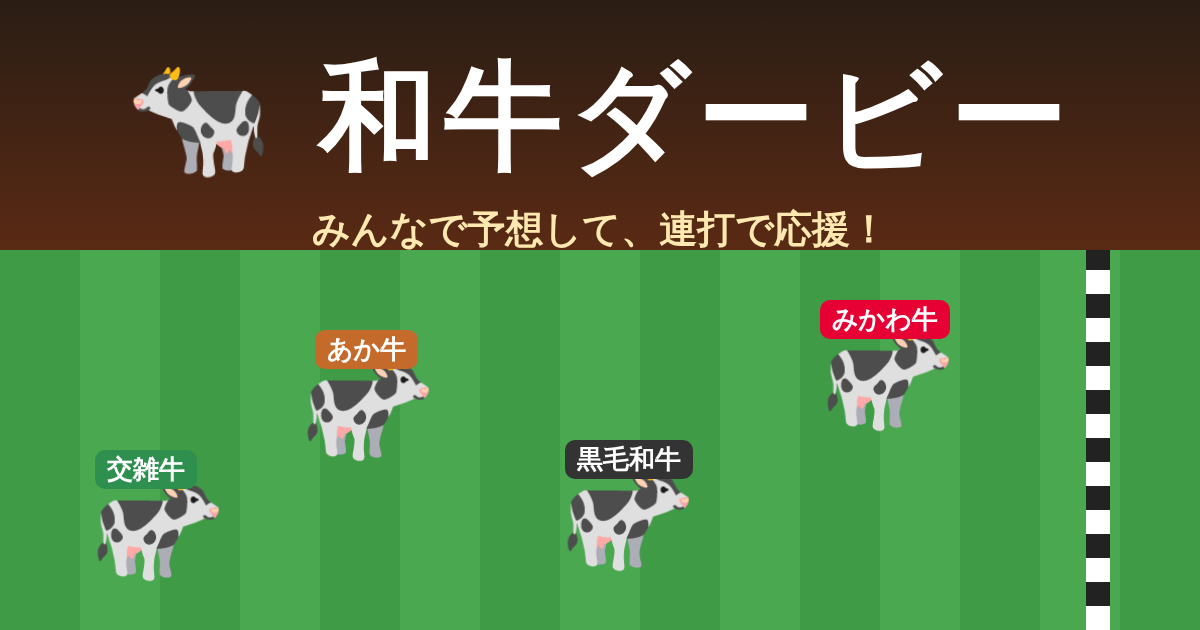
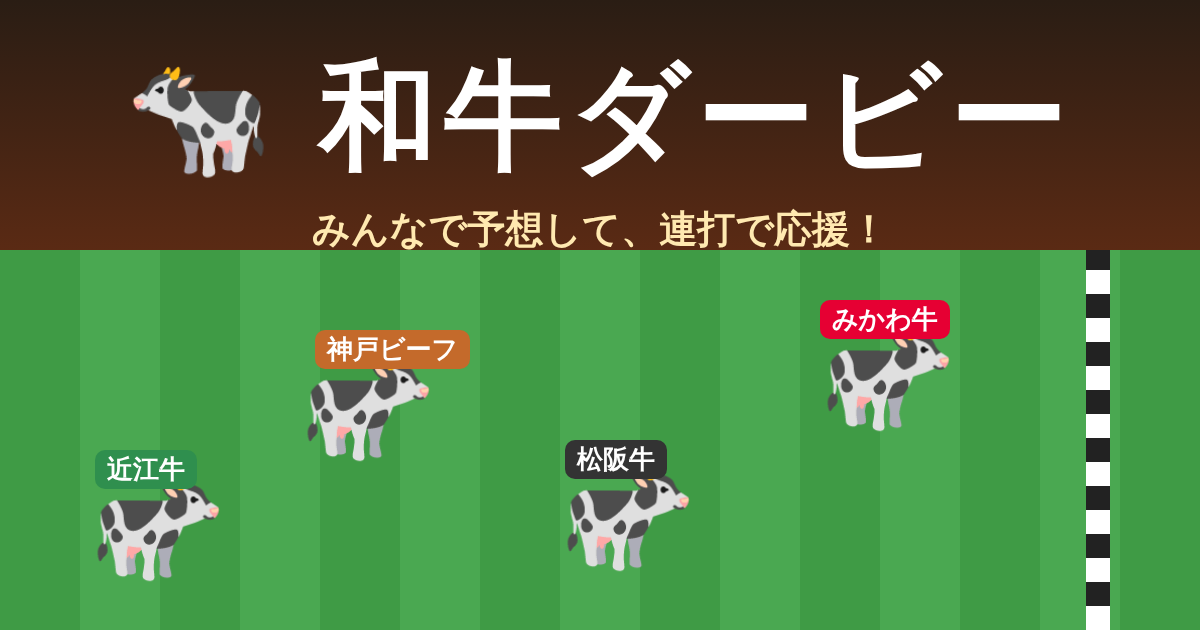
Race real wagyu brands plus 交雑牛 instead of fictional cows
Runners are now みかわ牛, 松阪牛, 神戸ビーフ, 近江牛, 米沢牛, 飛騨牛 and
交雑牛, shown with their prefecture. みかわ牛 still wins about 28% of
races versus about 12% for each rival.

Claude-Session: https://claude.ai/code/session_01D6XL12TRymXYCNqm6uF1j6

Changed region(s): [[0.2467, 0.5127, 0.4008, 0.6032], [0.4625, 0.6937, 0.5858, 0.7841], [0.0925, 0.7238, 0.1542, 0.7841]]

diff --git a/public/app.js b/public/app.js
@@ -76,8 +76,8 @@
     $('#cowCards').innerHTML = W.COWS.map((c, i) => `
       <div class="cow-card ${c.star ? 'star' : ''}" style="--c:${c.color}">
         <div class="num">${i + 1}</div>
-        <div class="brand">${esc(c.brand)} ${c.star ? '<span class="badge">推し牛</span>' : ''}</div>
-        <div class="name">${esc(c.name)}</div>
+        <div class="brand">${esc(c.origin)} ${c.star ? '<span class="badge">推し牛</span>' : ''}</div>
+        <div class="name">${esc(c.brand)}</div>
         <div class="intro">${esc(c.intro)}</div>
         <div class="meta"><span class="odds">${state.odds[i].toFixed(1)}倍</span><span class="cond">調子：${state.conditions[i].label}</span></div>
       </div>`).join('');
@@ -175,7 +175,7 @@
     for (const ev of events) {
       const r = ev.r;
       if (ev.type === 'finish') {
-        if (ev.place === 1) { say(`ゴーーール！！ 1着は ${label(r)} 「${r.cow.name}」！${r.cow.star ? ' さすがみかわ牛！！' : ''}`, true); sfx.fanfare(); }
+        if (ev.place === 1) { say(`ゴーーール！！ 1着は ${label(r)}（${r.cow.origin}）！${r.cow.star ? ' さすがみかわ牛！！' : ''}`, true); sfx.fanfare(); }
         continue;
       }
       if (ev.type === 'grass') say(`おっと ${label(r)}、道草を食べ始めたーっ！🌱`);
@@ -255,12 +255,12 @@
     banner.innerHTML = `
       <div class="big-cow">🐄</div>
       <div class="w1">第${state.round}レース 優勝</div>
-      <div class="w2">${win.idx + 1}番 ${esc(win.cow.brand)}「${esc(win.cow.name)}」</div>
+      <div class="w2">${win.idx + 1}番 ${esc(win.cow.brand)}</div>
       <div class="w3">${win.cow.star ? 'やっぱり強い！みかわ牛！！🎉' : `大波乱！単勝 ${odds.toFixed(1)}倍！`}</div>`;
 
     $('#resultList').innerHTML = fin.map((r, i) => `
       <li style="--c:${r.cow.color}"><span class="place">${['🥇', '🥈', '🥉'][i] || (i + 1) + '着'}</span>
-        <span>${r.idx + 1}番 <b>${esc(r.cow.brand)}</b> ${esc(r.cow.name)}</span>
+        <span>${r.idx + 1}番 <b>${esc(r.cow.brand)}</b> <small>${esc(r.cow.origin)}</small></span>
         <span class="time">${r.finishTime.toFixed(2)}秒</span></li>`).join('');
 
     const payouts = state.players.map((p) => {
@@ -274,7 +274,7 @@
       : '<li class="hint">参加者なし（観戦モード）</li>';
 
     const myHits = payouts.filter((x) => x.hit).map((x) => x.p.name);
-    lastResultText = `🐄 和牛ダービー 第${state.round}レースは ${win.idx + 1}番 ${win.cow.brand}「${win.cow.name}」が優勝！` +
+    lastResultText = `🐄 和牛ダービー 第${state.round}レースは ${win.idx + 1}番 ${win.cow.brand}が優勝！` +
       (win.cow.star ? 'やっぱりみかわ牛は強い！' : `単勝${odds.toFixed(1)}倍の波乱！`) +
       (myHits.length ? ` 的中：${myHits.join('・')}` : '') + ' #和牛ダービー';
     updateShareLinks();

diff --git a/public/race.js b/public/race.js
@@ -4,18 +4,20 @@
 
   // 出走牛。みかわ牛は「ちょっとだけ」有利（base と grassRate で調整）。
   const COWS = [
-    { id: 'mikawa',  brand: 'みかわ牛', name: 'ミカワノヒカリ', color: '#e60033', base: 1.008, grassRate: 0.7, dashRate: 1.2, star: true,
-      intro: '愛知・三河の誇り。きめ細かいサシと末脚が武器！' },
-    { id: 'kuro',    brand: '黒毛和牛', name: 'クロゲノカゼ',   color: '#333333', base: 1.0, grassRate: 1, dashRate: 1,
-      intro: '黒光りする馬体ならぬ牛体。安定感はピカイチ。' },
-    { id: 'aka',     brand: 'あか牛',   name: 'アカベコダッシュ', color: '#c46a2b', base: 1.0, grassRate: 1, dashRate: 1,
-      intro: 'スタートダッシュが得意。でも気分屋。' },
-    { id: 'tanka',   brand: '短角牛',   name: 'タンカクファイター', color: '#8b5a2b', base: 1.0, grassRate: 1, dashRate: 1,
-      intro: '山育ちのスタミナ自慢。坂に強い（坂はない）。' },
-    { id: 'mukaku',  brand: '無角牛',   name: 'ツノナシジェット', color: '#5b6b7a', base: 1.0, grassRate: 1, dashRate: 1,
-      intro: '角がないぶん空気抵抗が少ない…らしい。' },
-    { id: 'wagyu',   brand: '交雑牛',   name: 'ハーフアンドハーフ', color: '#2f8f4e', base: 1.0, grassRate: 1, dashRate: 1,
-      intro: 'いいとこ取りのハイブリッド。大穴の香り。' },
+    { id: 'mikawa',   brand: 'みかわ牛',   origin: '愛知県', color: '#e60033', base: 1.008, grassRate: 0.7, dashRate: 1.2, star: true,
+      intro: '愛知県・三河の黒毛和牛。今日の本命！' },
+    { id: 'matsusaka', brand: '松阪牛',     origin: '三重県', color: '#333333', base: 1.0, grassRate: 1, dashRate: 1,
+      intro: '三重県松阪地域の名ブランド。' },
+    { id: 'kobe',     brand: '神戸ビーフ', origin: '兵庫県', color: '#1f5fa8', base: 1.0, grassRate: 1, dashRate: 1,
+      intro: '兵庫県の但馬牛から生まれるブランド。' },
+    { id: 'omi',      brand: '近江牛',     origin: '滋賀県', color: '#c46a2b', base: 1.0, grassRate: 1, dashRate: 1,
+      intro: '滋賀県の歴史ある和牛ブランド。' },
+    { id: 'yonezawa', brand: '米沢牛',     origin: '山形県', color: '#6a4c93', base: 1.0, grassRate: 1, dashRate: 1,
+      intro: '山形県置賜地方の雪国育ち。' },
+    { id: 'hida',     brand: '飛騨牛',     origin: '岐阜県', color: '#2f8f4e', base: 1.0, grassRate: 1, dashRate: 1,
+      intro: '岐阜県の山あいで育つ黒毛和牛。' },
+    { id: 'kozatsu',  brand: '交雑牛',     origin: '国産', color: '#8b8b3a', base: 1.0, grassRate: 1, dashRate: 1,
+      intro: '黒毛和種とホルスタインの交雑種。大穴の香り。' },
   ];
 
   const TRACK = 1000;           // ゴールまでの距離

diff --git a/public/style.css b/public/style.css
@@ -168,3 +168,4 @@ footer { text-align: center; font-size: .78rem; color: var(--muted); padding: 16
 .toast { position: fixed; left: 50%; bottom: 24px; transform: translate(-50%, 20px); background: #2a1d14; color: #fff; padding: 10px 18px;
   border-radius: 99px; font-weight: 700; opacity: 0; transition: .25s; pointer-events: none; z-index: 30; }
 .toast.show { opacity: 1; transform: translate(-50%, 0); }
+.cheer:last-child:nth-child(3n+1) { grid-column: 1 / -1; }

diff --git a/README.md b/README.md
@@ -3,7 +3,9 @@
 みんなで予想して、連打で応援する、パーティー向けの競牛ゲームです。
 
 ## 遊び方
-1. 参加者の名前を追加し、それぞれ勝つと思う牛（1〜6番）を選ぶ
+出走するのは実在の和牛ブランド（みかわ牛・松阪牛・神戸ビーフ・近江牛・米沢牛・飛騨牛）と交雑牛の7頭です。
+
+1. 参加者の名前を追加し、それぞれ勝つと思う牛（1〜7番）を選ぶ
 2. 「出走！」でレース開始。レース中は自分の牛のボタンを**連打で応援**（少しだけ速くなる）
 3. 的中した人には「オッズ × 100」ポイント。通算ランキングで競う
 
@@ -20,7 +22,7 @@
 | 終盤の末脚 | +1.5% | なし |
 | 「ねむい」調子になる確率 | やや低い | 標準 |
 
-6頭立てで、みかわ牛の勝率は **約33%**（他は各13%前後、平等なら16.7%）。
+7頭立てで、みかわ牛の勝率は **約28%**（他は各12%前後、平等なら14.3%）。
 勝ちやすいけれど、負けることも普通にあるバランスです。
 
 勝率の確認:
